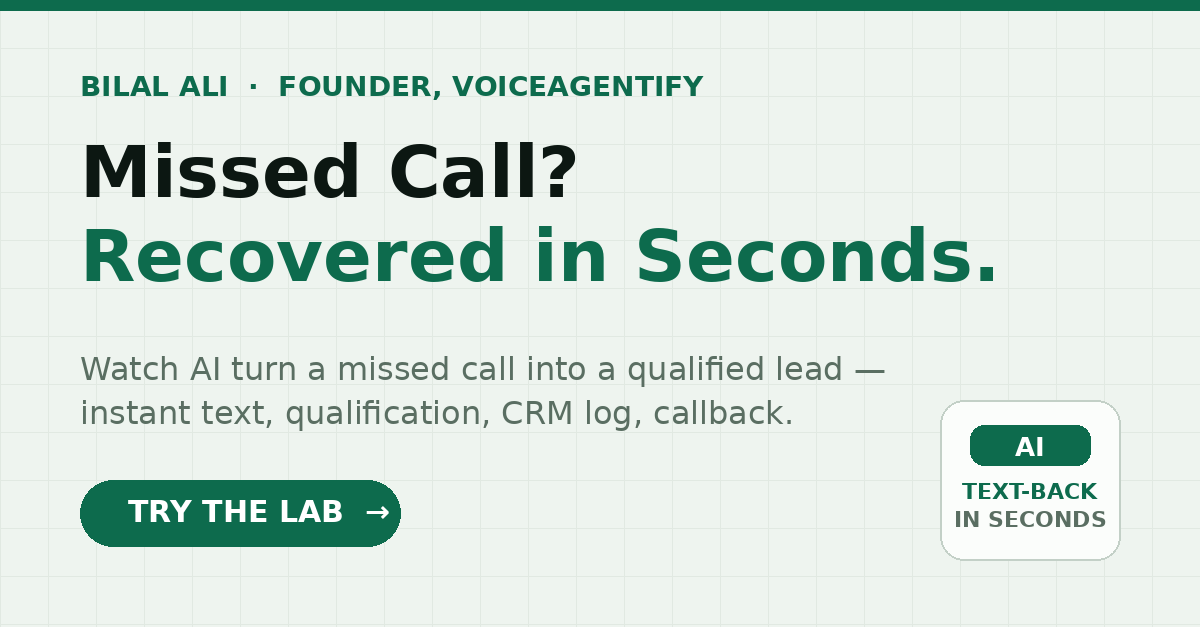
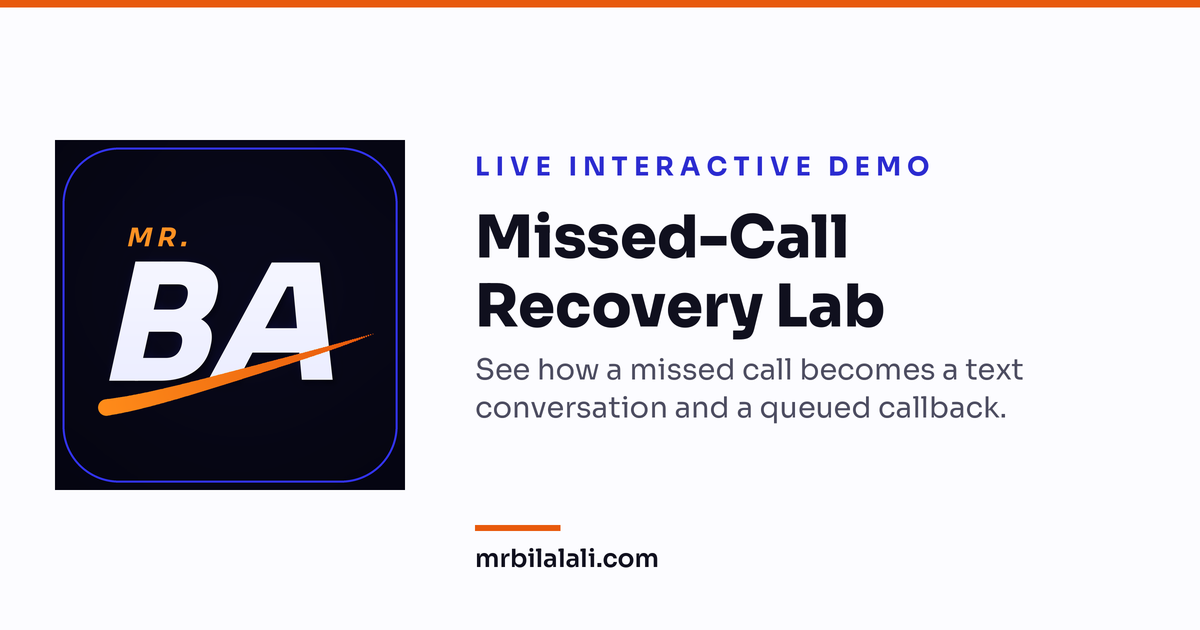
Retheme to the mrbilalali.com Emporio light theme (royal blue, orange CTA, Sora/Inter) + new OG card

diff --git a/index.html b/index.html
@@ -21,18 +21,18 @@
   <meta name="description" content="Interactive missed-call recovery workflow and opportunity calculator for service businesses." />
   <link rel="preconnect" href="https://fonts.googleapis.com" />
   <link rel="preconnect" href="https://fonts.gstatic.com" crossorigin />
-  <link href="https://fonts.googleapis.com/css2?family=DM+Sans:wght@400;500;600;700&family=IBM+Plex+Mono:wght@500;600&display=swap" rel="stylesheet" />
+  <link href="https://fonts.googleapis.com/css2?family=IBM+Plex+Mono:wght@500;600&family=Inter:wght@400;500;600;700&family=Sora:wght@600;700;800&display=swap" rel="stylesheet" />
   <style>
     :root {
       color-scheme: light dark;
-      --bg:#edf3ea;--paper:#fbfdf9;--paper2:#e1ebe0;--ink:#152119;--muted:#56635a;--line:#c5d2c4;
-      --green:#1c6849;--green2:#124b34;--mint:#d8eddd;--orange:#e9773e;--orange2:#fae0d2;
-      --night:#101914;--night2:#17231c;--night3:#213127;--white:#f5faf6;--shadow:0 24px 70px rgba(38,63,45,.15);
+      --bg:#fcfcff;--paper:#ffffff;--paper2:#f4f5fe;--ink:#10101e;--muted:#4c4c60;--line:#dddff2;
+      --green:#2b2bd0;--green2:#3233EF;--mint:#eef0fe;--orange:#e8590c;--orange2:#fdeadd;
+      --night:#10101e;--night2:#17172b;--night3:#1e1e38;--white:#ffffff;--shadow:0 24px 70px rgba(23,23,64,.14);
     }
-    @media(prefers-color-scheme:dark){:root{--bg:#0e1510;--paper:#151e18;--paper2:#1b2820;--ink:#eff6ef;--muted:#abb7ae;--line:#34433a;--green:#73c79a;--green2:#9bdcb7;--mint:#18392a;--orange:#f19a6a;--orange2:#43271b;--shadow:0 24px 70px rgba(0,0,0,.35)}}
-    *{box-sizing:border-box}html{scroll-behavior:smooth}body{margin:0;background:var(--bg);color:var(--ink);font-family:"DM Sans",sans-serif;line-height:1.55;overflow-x:hidden}button,input,a{font:inherit}button,a{-webkit-tap-highlight-color:transparent}.page{width:min(1180px,calc(100% - 40px));margin:auto}.mono{font-family:"IBM Plex Mono",monospace}
-    .hero{display:grid;grid-template-columns:minmax(0,.88fr) minmax(420px,.72fr);gap:clamp(38px,6vw,84px);align-items:center;min-height:740px;padding:54px 0 64px}.eyebrow{display:inline-flex;align-items:center;gap:9px;margin:0 0 22px;color:var(--green2);font-size:14px;font-weight:700}.eyebrow:before{content:"";width:9px;height:9px;border-radius:50%;background:var(--orange);box-shadow:0 0 0 5px var(--orange2)}h1{max-width:700px;margin:0 0 22px;font-size:clamp(43px,5.8vw,73px);line-height:.99;letter-spacing:-.055em}.lede{max-width:630px;margin:0;color:var(--muted);font-size:clamp(18px,2vw,21px)}.proofline{display:grid;grid-template-columns:repeat(3,1fr);margin:34px 0;border-block:1px solid var(--line)}.proofline div{padding:17px 15px 17px 0}.proofline div+div{padding-left:15px;border-left:1px solid var(--line)}.proofline strong,.proofline span{display:block}.proofline strong{font-size:15px}.proofline span{margin-top:4px;color:var(--muted);font-size:12px}.actions{display:flex;flex-wrap:wrap;gap:11px}.btn{min-height:50px;display:inline-flex;align-items:center;justify-content:center;gap:9px;padding:0 20px;border:1px solid transparent;border-radius:999px;font-weight:700;text-decoration:none;cursor:pointer;transition:.2s ease}.btn:active{transform:translateY(1px)}.primary{background:var(--green2);color:white}.primary:hover{background:var(--green)}.secondary{background:transparent;color:var(--ink);border-color:var(--line)}.secondary:hover{background:var(--paper);border-color:var(--green)}.micro{margin-top:17px;color:var(--muted);font-size:12px}
-    .console{position:relative;max-width:500px;width:100%;justify-self:center;padding:16px;border-radius:34px;background:var(--night);color:var(--white);box-shadow:var(--shadow),0 0 0 8px color-mix(in srgb,var(--paper) 58%,transparent);overflow:hidden}.console:before{content:"";position:absolute;inset:auto -90px -100px auto;width:260px;height:260px;border-radius:50%;background:rgba(59,146,93,.16);filter:blur(20px)}.console-top{position:relative;display:flex;justify-content:space-between;align-items:center;padding:10px 8px 16px;border-bottom:1px solid #2e3d33;color:#a8b6ac;font-size:11px}.status{display:flex;align-items:center;gap:7px}.dot{width:7px;height:7px;border-radius:50%;background:#75d89e;box-shadow:0 0 0 4px rgba(117,216,158,.12)}.scenario-row{position:relative;display:grid;grid-template-columns:repeat(3,1fr);gap:7px;padding:14px 0}.scenario{min-height:40px;padding:7px;border:1px solid #2f4135;border-radius:9px;background:transparent;color:#aab9ae;font-size:11px;font-weight:700;cursor:pointer}.scenario[aria-pressed="true"]{background:#244532;border-color:#3d7655;color:#e1f9e9}.scenario:disabled{opacity:.45;cursor:not-allowed}.call-card{position:relative;padding:18px;border-radius:17px;background:var(--night2);border:1px solid #2e3e33}.call-head{display:flex;align-items:center;gap:12px}.call-icon{display:grid;place-items:center;width:46px;height:46px;border-radius:50%;background:#284c38;color:#bdf1cf}.call-icon svg{width:21px}.call-head h2{margin:0;font-size:16px}.call-head p{margin:2px 0 0;color:#9ead9f;font-size:11px}.timer{margin-left:auto;color:#87d9a7;font-size:15px}.timeline{height:340px;margin:16px 0 14px;padding:0 2px;overflow-y:auto;scrollbar-width:thin;scrollbar-color:#405347 transparent}.empty{display:grid;place-items:center;height:100%;padding:30px;text-align:center;color:#98a79c;font-size:13px}.event{display:grid;grid-template-columns:48px 16px 1fr;gap:8px;opacity:0;transform:translateY(5px);animation:arrive .25s ease forwards}.event+.event{margin-top:13px}.etime{padding-top:1px;color:#829086;font-size:9px}.track{position:relative}.track:before{content:"";position:absolute;left:7px;top:11px;bottom:-20px;width:1px;background:#34463a}.event:last-child .track:before{display:none}.pin{position:relative;z-index:1;width:15px;height:15px;border:3px solid var(--night2);border-radius:50%;background:#67c991;box-shadow:0 0 0 1px #67c991}.event.sms .pin{background:#e58a59;box-shadow:0 0 0 1px #e58a59}.event.crm .pin{background:#87a9f2;box-shadow:0 0 0 1px #87a9f2}.event h3{margin:0 0 3px;font-size:12px}.event p{margin:0;color:#a8b5ab;font-size:11px;line-height:1.45}.tag{display:inline-block;margin-top:6px;padding:4px 7px;border-radius:5px;background:#26392d;color:#aee4c1;font-size:9px}@keyframes arrive{to{opacity:1;transform:none}}.console-actions{position:relative;display:grid;grid-template-columns:1fr auto;gap:9px}.console-actions .btn{min-height:45px;border-radius:11px}.run{background:#d8f2e0;color:#153320}.run:hover{background:#bfe8cd}.reset{width:45px;padding:0;background:transparent;color:#9eada2;border-color:#314238}.reset:hover{border-color:#718176;color:white}.result{display:none;position:absolute;inset:auto 16px 16px;padding:17px;border-radius:14px;background:#f1f8f1;color:#152119;box-shadow:0 16px 38px rgba(0,0,0,.28);z-index:4}.result.show{display:block;animation:arrive .3s ease both}.result-top{display:flex;justify-content:space-between;gap:15px}.result strong{font-size:16px}.result p{margin:3px 0 0;color:#58645b;font-size:11px}.x{border:0;background:none;color:#59685e;font-size:20px;cursor:pointer}.fields{display:grid;grid-template-columns:repeat(3,1fr);gap:6px;margin-top:12px}.fields div{padding:8px;border-radius:8px;background:#ddeade}.fields span,.fields b{display:block}.fields span{color:#6c786f;font-size:8px;text-transform:uppercase;letter-spacing:.08em}.fields b{font-size:10px;margin-top:2px}
+    @media(prefers-color-scheme:dark){:root{--bg:#fcfcff;--paper:#ffffff;--paper2:#f4f5fe;--ink:#10101e;--muted:#4c4c60;--line:#dddff2;--green:#2b2bd0;--green2:#3233EF;--mint:#eef0fe;--orange:#e8590c;--orange2:#fdeadd;--shadow:0 24px 70px rgba(23,23,64,.14)}}
+    *{box-sizing:border-box}html{scroll-behavior:smooth}body{margin:0;background:var(--bg);color:var(--ink);font-family:"Inter",sans-serif;line-height:1.55;overflow-x:hidden}h1,h2,h3,.big-number{font-family:"Sora",sans-serif}button,input,a{font:inherit}button,a{-webkit-tap-highlight-color:transparent}.page{width:min(1180px,calc(100% - 40px));margin:auto}.mono{font-family:"IBM Plex Mono",monospace}
+    .hero{display:grid;grid-template-columns:minmax(0,.88fr) minmax(420px,.72fr);gap:clamp(38px,6vw,84px);align-items:center;min-height:740px;padding:54px 0 64px}.eyebrow{display:inline-flex;align-items:center;gap:9px;margin:0 0 22px;color:var(--green2);font-size:14px;font-weight:700}.eyebrow:before{content:"";width:9px;height:9px;border-radius:50%;background:var(--orange);box-shadow:0 0 0 5px var(--orange2)}h1{max-width:700px;margin:0 0 22px;font-size:clamp(43px,5.8vw,73px);line-height:.99;letter-spacing:-.055em}.lede{max-width:630px;margin:0;color:var(--muted);font-size:clamp(18px,2vw,21px)}.proofline{display:grid;grid-template-columns:repeat(3,1fr);margin:34px 0;border-block:1px solid var(--line)}.proofline div{padding:17px 15px 17px 0}.proofline div+div{padding-left:15px;border-left:1px solid var(--line)}.proofline strong,.proofline span{display:block}.proofline strong{font-size:15px}.proofline span{margin-top:4px;color:var(--muted);font-size:12px}.actions{display:flex;flex-wrap:wrap;gap:11px}.btn{min-height:50px;display:inline-flex;align-items:center;justify-content:center;gap:9px;padding:0 20px;border:1px solid transparent;border-radius:999px;font-weight:700;text-decoration:none;cursor:pointer;transition:.2s ease}.btn:active{transform:translateY(1px)}.primary{background:#e8590c;color:white}.primary:hover{background:#d9480f}.secondary{background:transparent;color:var(--ink);border-color:var(--line)}.secondary:hover{background:var(--paper);border-color:var(--green)}.micro{margin-top:17px;color:var(--muted);font-size:12px}
+    .console{position:relative;max-width:500px;width:100%;justify-self:center;padding:16px;border-radius:34px;background:var(--night);color:var(--white);box-shadow:var(--shadow),0 0 0 8px color-mix(in srgb,var(--paper) 58%,transparent);overflow:hidden}.console:before{content:"";position:absolute;inset:auto -90px -100px auto;width:260px;height:260px;border-radius:50%;background:rgba(50,51,239,.22);filter:blur(20px)}.console-top{position:relative;display:flex;justify-content:space-between;align-items:center;padding:10px 8px 16px;border-bottom:1px solid #26264a;color:#b9b9fb;font-size:11px}.status{display:flex;align-items:center;gap:7px}.dot{width:7px;height:7px;border-radius:50%;background:#1f9d66;box-shadow:0 0 0 4px rgba(31,157,102,.20)}.scenario-row{position:relative;display:grid;grid-template-columns:repeat(3,1fr);gap:7px;padding:14px 0}.scenario{min-height:40px;padding:7px;border:1px solid #26264a;border-radius:9px;background:transparent;color:#a6a6cb;font-size:11px;font-weight:700;cursor:pointer}.scenario[aria-pressed="true"]{background:#232347;border-color:#3233EF;color:#ffffff}.scenario:disabled{opacity:.45;cursor:not-allowed}.call-card{position:relative;padding:18px;border-radius:17px;background:var(--night2);border:1px solid #26264a}.call-head{display:flex;align-items:center;gap:12px}.call-icon{display:grid;place-items:center;width:46px;height:46px;border-radius:50%;background:#232347;color:#b9b9fb}.call-icon svg{width:21px}.call-head h2{margin:0;font-size:16px}.call-head p{margin:2px 0 0;color:#a6a6cb;font-size:11px}.timer{margin-left:auto;color:#8383f7;font-size:15px}.timeline{height:340px;margin:16px 0 14px;padding:0 2px;overflow-y:auto;scrollbar-width:thin;scrollbar-color:#32335c transparent}.empty{display:grid;place-items:center;height:100%;padding:30px;text-align:center;color:#a6a6cb;font-size:13px}.event{display:grid;grid-template-columns:48px 16px 1fr;gap:8px;opacity:0;transform:translateY(5px);animation:arrive .25s ease forwards}.event+.event{margin-top:13px}.etime{padding-top:1px;color:#8383a6;font-size:9px}.track{position:relative}.track:before{content:"";position:absolute;left:7px;top:11px;bottom:-20px;width:1px;background:#2c2c52}.event:last-child .track:before{display:none}.pin{position:relative;z-index:1;width:15px;height:15px;border:3px solid var(--night2);border-radius:50%;background:#1f9d66;box-shadow:0 0 0 1px #1f9d66}.event.sms .pin{background:#e8590c;box-shadow:0 0 0 1px #e8590c}.event.crm .pin{background:#8383f7;box-shadow:0 0 0 1px #8383f7}.event h3{margin:0 0 3px;font-size:12px}.event p{margin:0;color:#a6a6cb;font-size:11px;line-height:1.45}.tag{display:inline-block;margin-top:6px;padding:4px 7px;border-radius:5px;background:#26264d;color:#b9b9fb;font-size:9px}@keyframes arrive{to{opacity:1;transform:none}}.console-actions{position:relative;display:grid;grid-template-columns:1fr auto;gap:9px}.console-actions .btn{min-height:45px;border-radius:11px}.run{background:#e8590c;color:#ffffff}.run:hover{background:#d9480f}.reset{width:45px;padding:0;background:transparent;color:#a6a6cb;border-color:#2c2c52}.reset:hover{border-color:#8383f7;color:white}.result{display:none;position:absolute;inset:auto 16px 16px;padding:17px;border-radius:14px;background:#ffffff;color:#10101e;box-shadow:0 16px 38px rgba(0,0,0,.28);z-index:4}.result.show{display:block;animation:arrive .3s ease both}.result-top{display:flex;justify-content:space-between;gap:15px}.result strong{font-size:16px}.result p{margin:3px 0 0;color:#4c4c60;font-size:11px}.x{border:0;background:none;color:#4c4c60;font-size:20px;cursor:pointer}.fields{display:grid;grid-template-columns:repeat(3,1fr);gap:6px;margin-top:12px}.fields div{padding:8px;border-radius:8px;background:#e5f6ee}.fields span,.fields b{display:block}.fields span{color:#4c4c60;font-size:8px;text-transform:uppercase;letter-spacing:.08em}.fields b{font-size:10px;margin-top:2px}
     section{padding:90px 0}.section-head{display:grid;grid-template-columns:minmax(0,.84fr) minmax(280px,.4fr);gap:48px;align-items:end;margin-bottom:42px}.section-head h2{margin:0;font-size:clamp(34px,4.5vw,56px);line-height:1.04;letter-spacing:-.045em}.section-head p{margin:0;color:var(--muted)}.calculator{background:var(--paper)}.calc-grid{display:grid;grid-template-columns:minmax(0,.9fr) minmax(360px,.52fr);gap:48px;align-items:stretch}.calc-form{display:grid;grid-template-columns:repeat(3,1fr);gap:14px}.field{padding:18px 0;border-top:1px solid var(--line)}.field label{display:block;min-height:44px;font-size:13px;font-weight:700}.input-wrap{display:flex;align-items:center;gap:6px}.input-wrap span{color:var(--muted)}.field input{width:100%;min-width:0;padding:12px 10px;border:1px solid var(--line);border-radius:9px;background:var(--bg);color:var(--ink);font-family:"IBM Plex Mono",monospace;font-size:17px}.field input:focus{outline:3px solid var(--orange2);border-color:var(--orange)}.calc-note{grid-column:1/-1;margin:3px 0 0;color:var(--muted);font-size:12px}.output{display:flex;flex-direction:column;justify-content:space-between;padding:27px;border-radius:20px;background:var(--green2);color:white}.output span{font-size:12px;opacity:.78}.big-number{margin:18px 0 8px;font-size:clamp(39px,5vw,64px);line-height:1;font-weight:700;letter-spacing:-.05em}.output p{margin:0;font-size:13px;opacity:.82}.output-foot{margin-top:28px;padding-top:16px;border-top:1px solid rgba(255,255,255,.23);font-size:11px;opacity:.76}.architecture{border-top:1px solid var(--line)}.arch-grid{display:grid;grid-template-columns:repeat(5,1fr)}.arch{min-height:235px;padding:26px 22px;border-left:1px solid var(--line)}.arch:first-child{padding-left:0;border-left:0}.arch:last-child{padding-right:0}.arch .num{color:var(--orange);font-size:12px}.arch h3{margin:38px 0 9px;font-size:18px}.arch p{margin:0;color:var(--muted);font-size:13px}.research{background:var(--paper)}.research-grid{display:grid;grid-template-columns:minmax(0,.68fr) minmax(310px,.32fr);gap:54px}.ranklist{border-top:1px solid var(--line)}.rank{display:grid;grid-template-columns:54px 1fr;gap:17px;padding:22px 0;border-bottom:1px solid var(--line)}.rank-num{color:var(--green);font-size:21px}.rank h3{margin:0 0 5px;font-size:17px}.rank p{margin:0;color:var(--muted);font-size:13px}.rank.selected{margin:0 -18px;padding:22px 18px;background:var(--mint);border:0;border-radius:13px}.rank.selected+.rank{margin-top:8px}.source-panel{align-self:start;position:sticky;top:20px;padding:25px;border-radius:17px;background:var(--paper2)}.source-panel h3{margin:0 0 6px}.source-panel>p{margin:0 0 18px;color:var(--muted);font-size:12px}.sources{display:grid}.sources a{display:flex;justify-content:space-between;gap:12px;padding:11px 0;border-bottom:1px solid var(--line);font-size:12px;font-weight:700;text-decoration:none}.sources a:after{content:"↗";color:var(--green)}.sources a:hover{color:var(--green2)}.caveat{margin-top:17px!important;font-size:10px!important}.cta{padding:70px 0}.cta-inner{display:grid;grid-template-columns:1fr auto;gap:30px;align-items:center;padding:43px 0;border-block:1px solid var(--line)}.cta h2{max-width:730px;margin:0;font-size:clamp(31px,4vw,49px);line-height:1.08;letter-spacing:-.045em}.cta p{max-width:650px;margin:11px 0 0;color:var(--muted)}footer{display:flex;justify-content:space-between;gap:20px;padding:0 0 46px;color:var(--muted);font-size:11px}button:focus-visible,a:focus-visible{outline:3px solid var(--orange);outline-offset:3px}
     @media(max-width:950px){.hero{grid-template-columns:1fr}.console{max-width:560px}.section-head,.calc-grid,.research-grid{grid-template-columns:1fr}.arch-grid{grid-template-columns:repeat(2,1fr)}.arch{border-top:1px solid var(--line)}.arch:nth-child(odd){border-left:0;padding-left:0}.source-panel{position:static}}
     @media(max-width:620px){.page{width:min(100% - 24px,1180px)}.hero{min-height:auto;padding:30px 0 54px;gap:42px}h1{font-size:clamp(40px,13vw,56px)}.proofline{grid-template-columns:1fr}.proofline div,.proofline div+div{padding:13px 0;border-left:0}.proofline div+div{border-top:1px solid var(--line)}.actions .btn{width:100%}.console{padding:13px;border-radius:25px}.timeline{height:323px}.fields{grid-template-columns:1fr}.scenario{font-size:10px}section{padding:64px 0}.section-head{gap:16px;margin-bottom:30px}.calc-form{grid-template-columns:1fr}.field label{min-height:0;margin-bottom:8px}.arch-grid{grid-template-columns:1fr}.arch,.arch:nth-child(odd),.arch:first-child,.arch:last-child{min-height:0;padding:23px 0;border-left:0;border-top:1px solid var(--line)}.arch:first-child{border-top:0}.arch h3{margin-top:18px}.rank.selected{margin:0 -8px;padding:20px 8px}.cta-inner{grid-template-columns:1fr}.cta .btn{width:100%}footer{flex-direction:column}}
